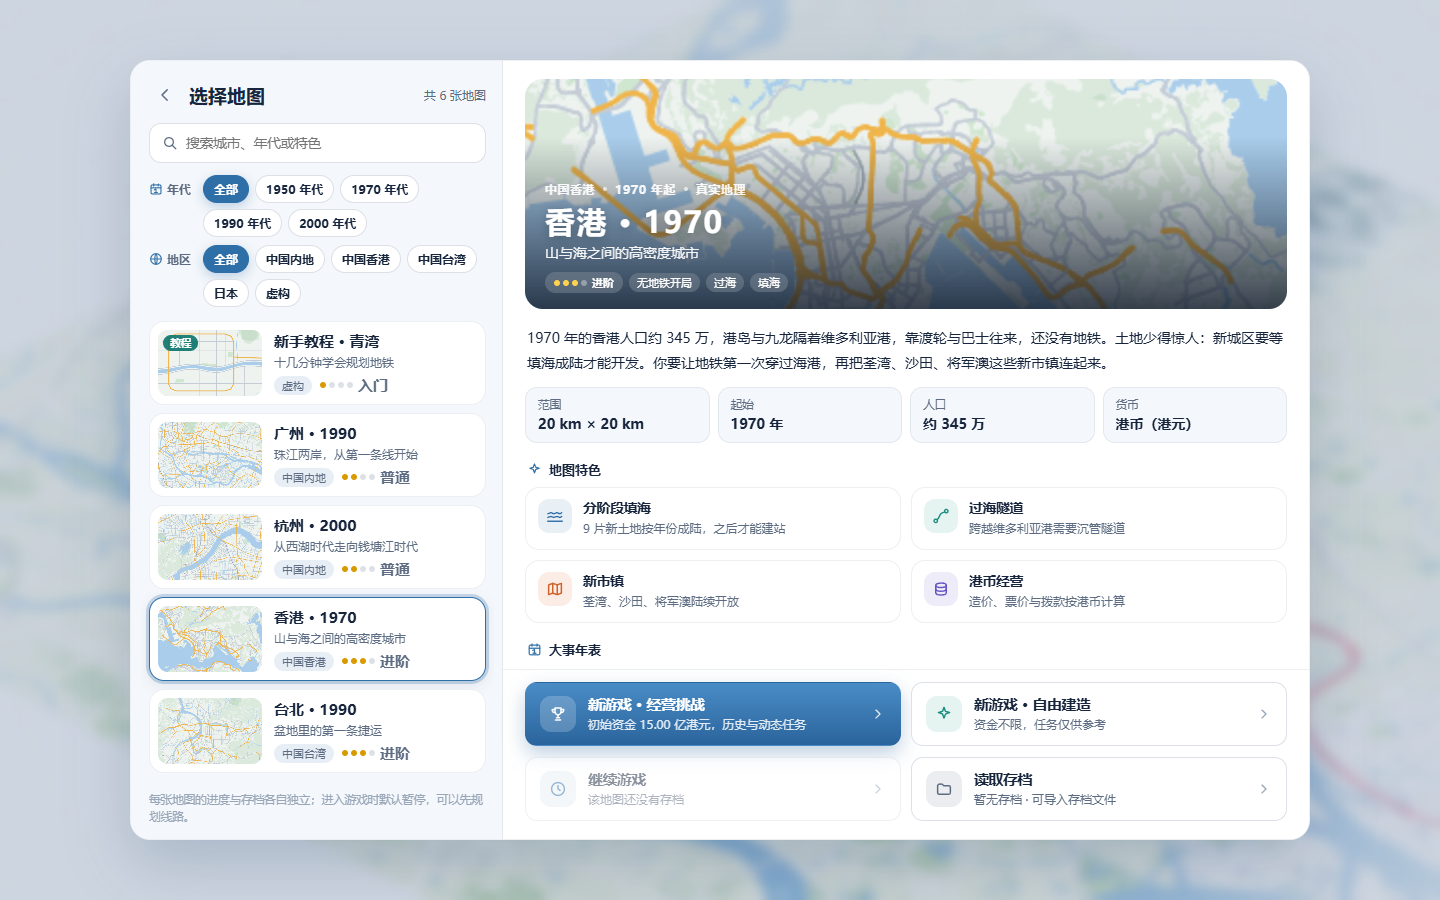
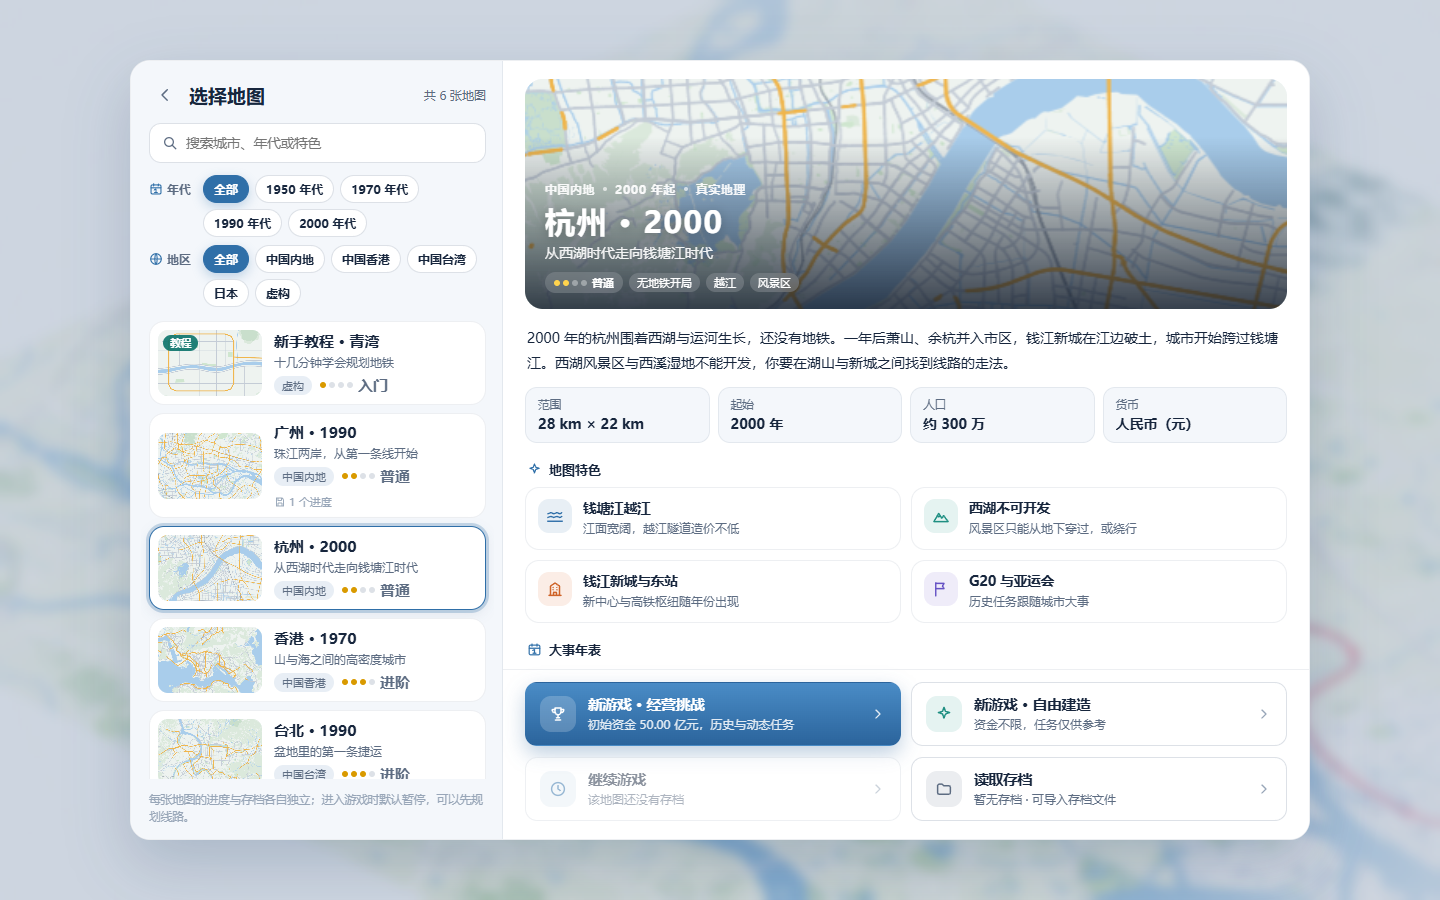
[CF-Pages-Skip] Refresh screenshots with Tokyo day and Guangzhou night views

diff --git a/README.md b/README.md
@@ -11,25 +11,25 @@
 - **从城市全景，看到地下线网。** 在 2D、2.5D 和地下视图间切换，跟随列车穿行，也能展开车站、线路与片区的细节。
 - **让每一条线都有依据。** 观察人口、就业、拥堵、出行方向和车站客流，找到值得连接的地方，再用换乘和扩建改善网络。
 
-### 珠江两岸，连成一张网
+### 东京：白天的平面线网
 
-广州演示线网与 2.5D 城市场景：河流、街区、地标和地铁在同一张地图上呈现。
+接管 1950 年已运营的银座线，在白天的 2D 视图中查看 18 座车站、河道与街区的关系，再规划下一步扩建。
 
-![广州实机截图：2.5D 城市场景、珠江两岸与多条地铁线路](./img/screenshot-guangzhou.png)
+![东京实机截图：白天的 2D 地图与 1950 年银座线](./img/screenshot-tokyo-day.png)
 
-### 换个视角，看清地下
+### 广州：珠江两岸的立体夜景
 
-切换深色主题与地下视图，查看车站、隧道和换乘关系。
+切换到 2.5D 立体视图与深色主题，看建筑灯光、江面和地铁线网在夜景中交织。
 
-![广州实机截图：深色主题下的地下视图与彩色地铁线网](./img/screenshot-underground.png)
+![广州实机截图：2.5D 立体夜景、珠江两岸建筑与演示地铁线网](./img/screenshot-guangzhou-night.png)
 
 ### 从熟悉的城市，开始新的规划
 
 六张地图各有地理、年代和经营条件；在地图选择页了解特色，再决定这一局从哪里出发。
 
-![地图选择实机截图：按难度排列的城市列表与香港 1970 年地图详情](./img/screenshot-map-selection.png)
+![地图选择实机截图：按难度排列的城市列表与杭州 2000 年地图详情](./img/screenshot-map-selection.png)
 
-以上为当前版本实机画面，广州两幅截图使用游戏内的演示线网。
+以上为当前版本实机画面；东京展示开局已有的银座线，广州使用游戏内的演示线网。
 
 ## 版权与许可
 
